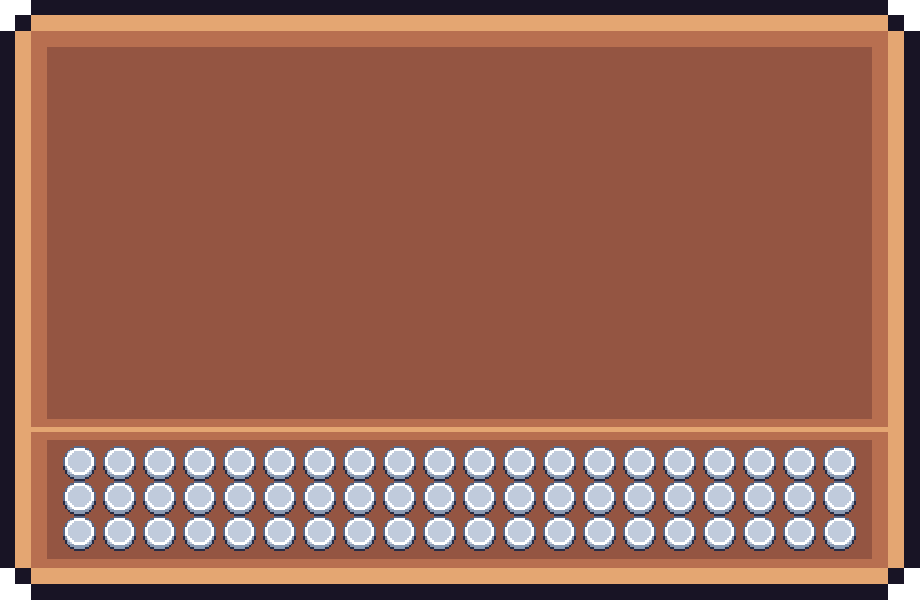
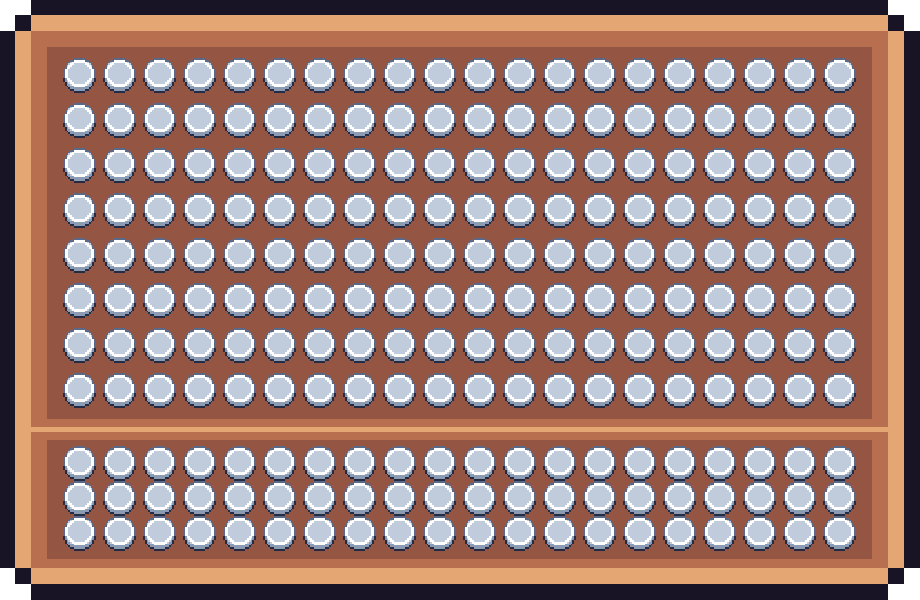
finish chest bag part interaction

Changed region(s): [[0.0609, 0.09, 0.9435, 0.69]]

diff --git a/src/client/mainwindow.cc b/src/client/mainwindow.cc
@@ -11,7 +11,7 @@ MainWindow::MainWindow(QWidget *parent)
   // 太丑了 要优化
   for (int i = 0; i < 10; i++)
   {
-    ItemSlot *is = new ItemSlot(64,this);
+    ItemSlot *is = new ItemSlot(64, this);
     is->setBaseSize(64, 64);
     is->setObjectName(QString("bag_col0_%1").arg(i));
     ui->bag_toolbar->addWidget(is);
@@ -20,7 +20,7 @@ MainWindow::MainWindow(QWidget *parent)
   }
   for (int i = 0; i < 10; i++)
   {
-    ItemSlot *is = new ItemSlot(64,this);
+    ItemSlot *is = new ItemSlot(64, this);
     is->setBaseSize(64, 64);
     is->setObjectName(QString("bag_col1_%1").arg(i));
     ui->bag_col1->addWidget(is);
@@ -29,7 +29,7 @@ MainWindow::MainWindow(QWidget *parent)
   }
   for (int i = 0; i < 10; i++)
   {
-    ItemSlot *is = new ItemSlot(64,this);
+    ItemSlot *is = new ItemSlot(64, this);
     is->setBaseSize(64, 64);
     is->setObjectName(QString("bag_col2_%1").arg(i));
     ui->bag_col2->addWidget(is);
@@ -38,7 +38,7 @@ MainWindow::MainWindow(QWidget *parent)
   }
   for (int i = 0; i < 10; i++)
   {
-    ItemSlot *is = new ItemSlot(64,this);
+    ItemSlot *is = new ItemSlot(64, this);
     is->setBaseSize(64, 64);
     is->setObjectName(QString("bag_col3_%1").arg(i));
     ui->bag_col3->addWidget(is);
@@ -47,7 +47,7 @@ MainWindow::MainWindow(QWidget *parent)
   }
   for (int i = 0; i < 10; i++)
   {
-    ItemSlot *is = new ItemSlot(64,this);
+    ItemSlot *is = new ItemSlot(64, this);
     is->setBaseSize(64, 64);
     is->setObjectName(QString("bag_col4_%1").arg(i));
     ui->bag_col4->addWidget(is);
@@ -56,7 +56,7 @@ MainWindow::MainWindow(QWidget *parent)
   }
   for (int i = 0; i < 10; i++)
   {
-    ItemSlot *is = new ItemSlot(64,this);
+    ItemSlot *is = new ItemSlot(64, this);
     is->setBaseSize(64, 64);
     is->setObjectName(QString("bag_col5_%1").arg(i));
     ui->bag_col5->addWidget(is);
@@ -65,7 +65,7 @@ MainWindow::MainWindow(QWidget *parent)
   }
   for (int i = 0; i < 10; i++)
   {
-    ItemSlot *is = new ItemSlot(64,this);
+    ItemSlot *is = new ItemSlot(64, this);
     is->setBaseSize(64, 64);
     is->setObjectName(QString("toolbar_%1").arg(i));
     ui->toolbar->addWidget(is);
@@ -74,7 +74,7 @@ MainWindow::MainWindow(QWidget *parent)
   }
   for (int i = 0; i < 20; i++)
   {
-    ItemSlot *is = new ItemSlot(32,this);
+    ItemSlot *is = new ItemSlot(32, this);
     is->setBaseSize(33, 35);
     is->setObjectName(QString("chest_%1").arg(i));
     ui->chest->addWidget(is);
@@ -83,7 +83,7 @@ MainWindow::MainWindow(QWidget *parent)
   }
   for (int i = 0; i < 20; i++)
   {
-    ItemSlot *is = new ItemSlot(32,this);
+    ItemSlot *is = new ItemSlot(32, this);
     is->setBaseSize(33, 35);
     is->setObjectName(QString("chest_%1").arg(i));
     ui->chest_2->addWidget(is);
@@ -92,7 +92,7 @@ MainWindow::MainWindow(QWidget *parent)
   }
   for (int i = 0; i < 20; i++)
   {
-    ItemSlot *is = new ItemSlot(32,this);
+    ItemSlot *is = new ItemSlot(32, this);
     is->setBaseSize(33, 35);
     is->setObjectName(QString("chest_%1").arg(i));
     ui->chest_3->addWidget(is);
@@ -448,6 +448,21 @@ void MainWindow::keyPressEvent(QKeyEvent *event)
         Cursor_item = empty;
       }
       ui->toolbar_background->setVisible(!ui->toolbar_background->isVisible());
+
+      if (toolbar_button[0]->isVisible())
+      {
+        for (int i = 0; i < chest_bag_button.size(); i++)
+        {
+          chest_bag_button[i]->SetItemPickup(this->me->GetPickup(i));
+        }
+      }
+      else
+      {
+        for (int i = 0; i < toolbar_button.size(); i++)
+        {
+          toolbar_button[i]->SetItemPickup(this->me->GetPickup(i));
+        }
+      }
       for (int i = 0; i < toolbar_button.size(); i++)
       {
         toolbar_button[i]->setVisible(!toolbar_button[i]->isVisible());
@@ -679,6 +694,26 @@ void MainWindow::onItemClicked(Item_Pickup item)
     }
   }
 
+  for (int i = 0; i < chest_bag_button.size(); i++)
+  {
+    if (chest_bag_button[i]->GetPressed())
+    {
+      if (item.item.GetName() == Cursor_item.item.GetName())
+      {
+        Cursor_item.number += item.number;
+        if (Cursor_item.number > Cursor_item.item.GetMax())
+        {
+          item.number = Cursor_item.number - Cursor_item.item.GetMax();
+          Cursor_item.number = Cursor_item.item.GetMax();
+        }
+      }
+      this->me->SetBag(i, Cursor_item);
+      chest_bag_button[i]->SetItemPickup(Cursor_item);
+      Cursor_item = item;
+      return;
+    }
+  }
+
   for (int i = 0; i < toolbar_button.size(); i++)
   {
     if (toolbar_button[i]->GetPressed())
@@ -697,18 +732,20 @@ void MainWindow::mousePressEvent(QMouseEvent *event)
   {
     if (event->button() == Qt::LeftButton)
     {
+      Player player = *(this->me);
+      Point player_location = player.GetLocation();
+      int left_top_x = player_location.GetX() - DEFUALT_WIDTH / 2;
+      int left_top_y = player_location.GetY() - DEFUALT_HEIGHT / 2;
+      int cursor_block_location_x = (mousePosition.rx() + left_top_x) / BLOCK_SIZE;
+      int cursor_block_location_y = (mousePosition.ry() + left_top_y) / BLOCK_SIZE;
+      int player_block_location_x = player_location.GetX() / BLOCK_SIZE;
+      int player_block_location_y = player_location.GetY() / BLOCK_SIZE;
       for (int i = 0; i < toolbar_button.size(); i++)
       {
+
         if (toolbar_button[i]->GetSelected())
         {
-          Player player = *(this->me);
-          Point player_location = player.GetLocation();
-          int left_top_x = player_location.GetX() - DEFUALT_WIDTH / 2;
-          int left_top_y = player_location.GetY() - DEFUALT_HEIGHT / 2;
-          int player_block_location_x = player_location.GetX() / BLOCK_SIZE;
-          int player_block_location_y = player_location.GetY() / BLOCK_SIZE;
-          int cursor_block_location_x = (mousePosition.rx() + left_top_x) / BLOCK_SIZE;
-          int cursor_block_location_y = (mousePosition.ry() + left_top_y) / BLOCK_SIZE;
+
           if (abs(player_block_location_x - cursor_block_location_x) < 5 && abs(player_block_location_y - cursor_block_location_y) < 5)
           {
             if (toolbar_button[i]->GetItemPickup().item.Put(this->gameMap, cursor_block_location_x, cursor_block_location_y, this->myID))
@@ -719,7 +756,17 @@ void MainWindow::mousePressEvent(QMouseEvent *event)
               this->me->Use(tmp.item.GetName());
             }
           }
-          break;
+          return;
+        }
+      }
+      if (abs(player_block_location_x - cursor_block_location_x) < 5 && abs(player_block_location_y - cursor_block_location_y) < 5)
+      {
+        if (toolbar_button[i]->GetItemPickup().item.Put(this->gameMap, cursor_block_location_x, cursor_block_location_y, this->myID))
+        {
+          Item_Pickup tmp = toolbar_button[i]->GetItemPickup();
+          tmp.UseOne();
+          toolbar_button[i]->SetItemPickup(tmp);
+          this->me->Use(tmp.item.GetName());
         }
       }
     }

diff --git a/src/client/item_slot.cc b/src/client/item_slot.cc
@@ -12,36 +12,41 @@ ItemSlot::ItemSlot(int size, QWidget *parent)
   button->setObjectName("button");
   connect(button, &QPushButton::clicked, this, &ItemSlot::on_button_clicked);
   label = new QLabel(this);
-  label->setStyleSheet("background-color: rgb(255, 255, 255,0);"
-                       "font: 500 18pt m5x7");
+
   label->setAlignment(Qt::AlignCenter);
   title = new QLabel(this);
-  title->setStyleSheet("background-color: rgb(255, 255, 255,0);"
-                       "font: 500 18pt m5x7");
+
   title->setText(QString::fromStdString(this->item.item.GetName()));
   title->setAlignment(Qt::AlignCenter);
 
   if (size == 64)
   {
     button->setStyleSheet("background-color: rgb(255, 255, 255,0);"
-                        "border-radius: 32px;");
+                          "border-radius: 32px;");
     setFixedSize(64, 74);
     button->setFixedSize(64, 64);
     label->setFixedSize(20, 20);
     label->move(37, 37);
     title->setFixedSize(64, 20);
     title->move(0, 54);
+    title->setStyleSheet("background-color: rgb(255, 255, 255,0);"
+                         "font: 500 18pt m5x7");
+    label->setStyleSheet("background-color: rgb(255, 255, 255,0);"
+                         "font: 500 18pt m5x7");
   }
   else if (size == 32)
   {
     button->setStyleSheet("background-color: rgb(255, 255, 255,0);"
-                        "border-radius: 16px;");
+                          "border-radius: 16px;");
     setFixedSize(33, 35);
     button->setFixedSize(33, 33);
-    label->setFixedSize(10, 10);
-    label->move(18, 18);
+    label->setFixedSize(16, 16);
+    label->move(19, 20);
     title->setFixedSize(32, 10);
     title->move(0, 27);
+    title->setVisible(false);
+    label->setStyleSheet("background-color: rgb(255, 255, 255,0);"
+                         "font: 500 16pt m5x7");
   }
   setAcceptDrops(true);
 }
@@ -51,7 +56,7 @@ void ItemSlot::enterEvent(QEvent *event)
   title->setText(QString::fromStdString(this->item.item.GetName()));
   QString style = button->styleSheet();
   QString background_image = "image: url(" + QString::fromStdString(item.item.GetPath()) + ");";
-  QString style_sheet = "background-color: rgba(255, 255, 255, 0);" + background_image + "border-radius: "+QString::number(button->width()/2)+"px;" + "border: 3px solid gold;";
+  QString style_sheet = "background-color: rgba(255, 255, 255, 0);" + background_image + "border-radius: " + QString::number(button->width() / 2) + "px;" + "border: 3px solid gold;";
   button->setStyleSheet(style_sheet);
 }
 
@@ -59,7 +64,7 @@ void ItemSlot::leaveEvent(QEvent *event)
 {
   title->setText("");
   QString background_image = "image: url(" + QString::fromStdString(item.item.GetPath()) + ");";
-  QString style_sheet = "background-color: rgba(255, 255, 255, 0);" + background_image + "border-radius: "+QString::number(button->width()/2)+"px;";
+  QString style_sheet = "background-color: rgba(255, 255, 255, 0);" + background_image + "border-radius: " + QString::number(button->width() / 2) + "px;";
   button->setStyleSheet(style_sheet);
 }
 
@@ -83,7 +88,7 @@ void ItemSlot::SetItemPickup(Item_Pickup _item)
   this->item = _item;
   if (_item.number <= 0)
   {
-    QString style_sheet = "background-color: rgba(255, 255, 255, 0);border-radius: "+QString::number(button->width()/2)+"px;";
+    QString style_sheet = "background-color: rgba(255, 255, 255, 0);border-radius: " + QString::number(button->width() / 2) + "px;";
     button->setStyleSheet(style_sheet);
     label->setText("");
     Item_Pickup i;
@@ -92,7 +97,7 @@ void ItemSlot::SetItemPickup(Item_Pickup _item)
   }
 
   QString background_image = "image: url(" + QString::fromStdString(_item.item.GetPath()) + ");";
-  QString style_sheet = "background-color: rgba(255, 255, 255, 0);" + background_image + "border-radius: "+QString::number(button->width()/2)+"px;";
+  QString style_sheet = "background-color: rgba(255, 255, 255, 0);" + background_image + "border-radius: " + QString::number(button->width() / 2) + "px;";
   button->setStyleSheet(style_sheet);
   label->setText(QString::number(_item.number));
 }

diff --git a/src/client/mainwindow.h b/src/client/mainwindow.h
@@ -83,7 +83,7 @@ private:
   int ANIMATION_TIME;
   Animation building_cursor;
   QTimer *pressTimer;
-  std::vector<ItemSlot *> toolbar_button, bag_button,chest_bag_button;
+  std::vector<ItemSlot *> toolbar_button, bag_button,chest_bag_button,chest_button;
   std::map<std::string, Item> itemsList;
   Item_Pickup Cursor_item;
 

diff --git a/src/client/item_slot.h b/src/client/item_slot.h
@@ -19,7 +19,7 @@ private:
   QLabel *label, *title;
   Item_Pickup item;
   bool mousePressed = false, isSelected = false;
-
+  int button_size;
 public:
   explicit ItemSlot(int size,QWidget *parent = nullptr);
   void SetItemPickup(Item_Pickup _item);
